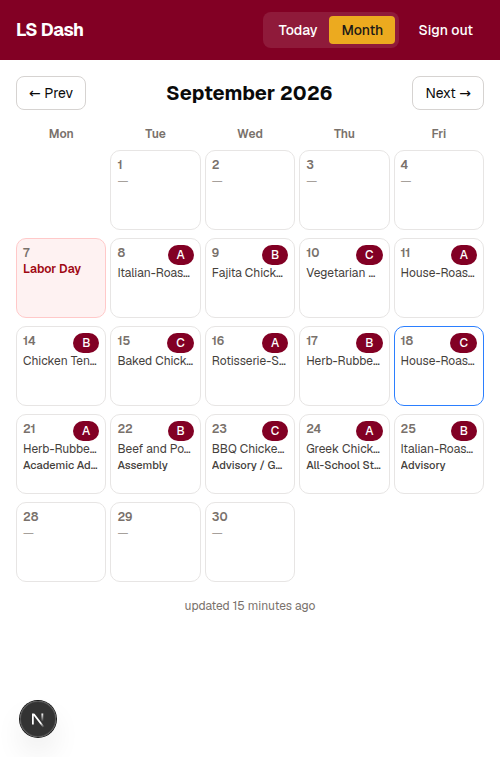
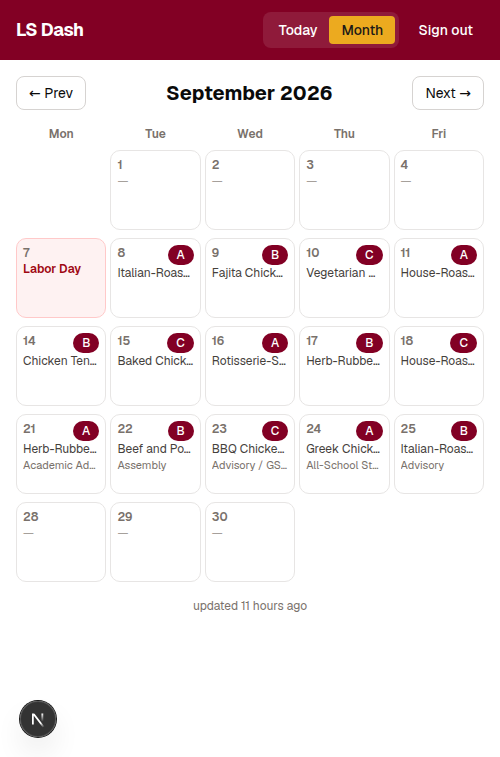
Mobile month cells: PAWS takes breakfast's old slot and styling
Implemented With: T3 Code via muse-spark-1.3-contributor-free on opencode

diff --git a/src/app/month/page.tsx b/src/app/month/page.tsx
@@ -44,11 +44,12 @@ function CellBody({ day }: { day: DayDoc | undefined }) {
   // PAWS comes from the day doc (authenticated Firestore read), never from
   // the client bundle, so logged-out chunks reveal nothing school-specific.
   // No "PAWS:" prefix: on mobile it is a body line, on desktop it sits in
-  // the cell header next to the day number.
+  // the cell header next to the day number. The mobile line reuses the old
+  // breakfast slot and styling (small gray line under the meal).
   const paws = day.paws ?? null;
   const pawsLine = paws ? (
     <p
-      className="truncate text-[11px] font-medium text-stone-700 sm:hidden"
+      className="truncate text-[11px] text-stone-500 sm:hidden"
       data-testid={`paws-month-${day.date}`}
       title={paws.title}
     >
